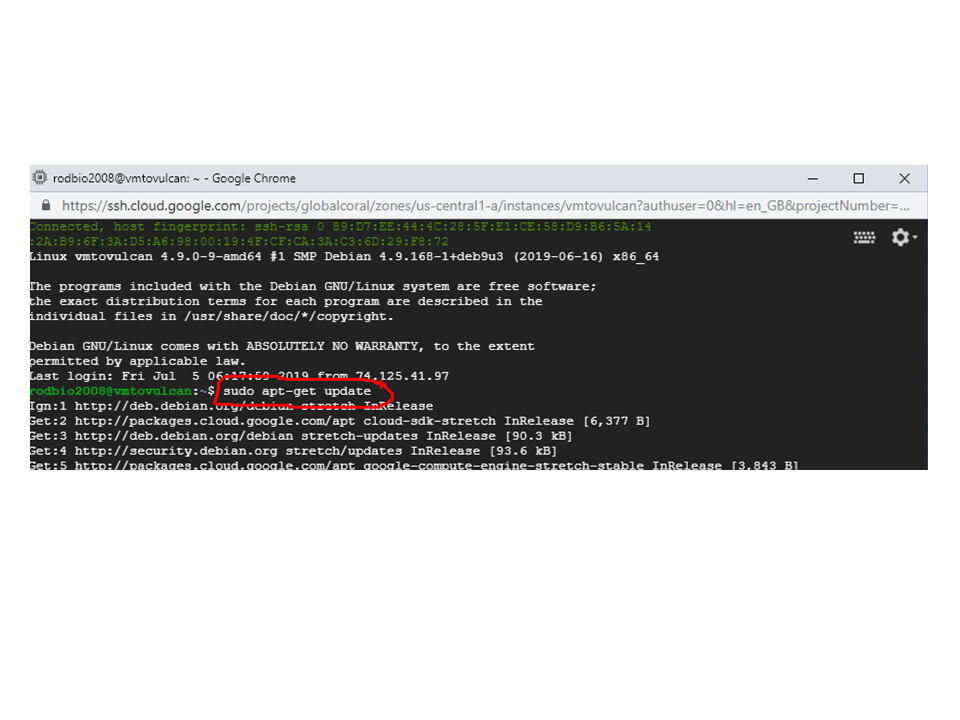
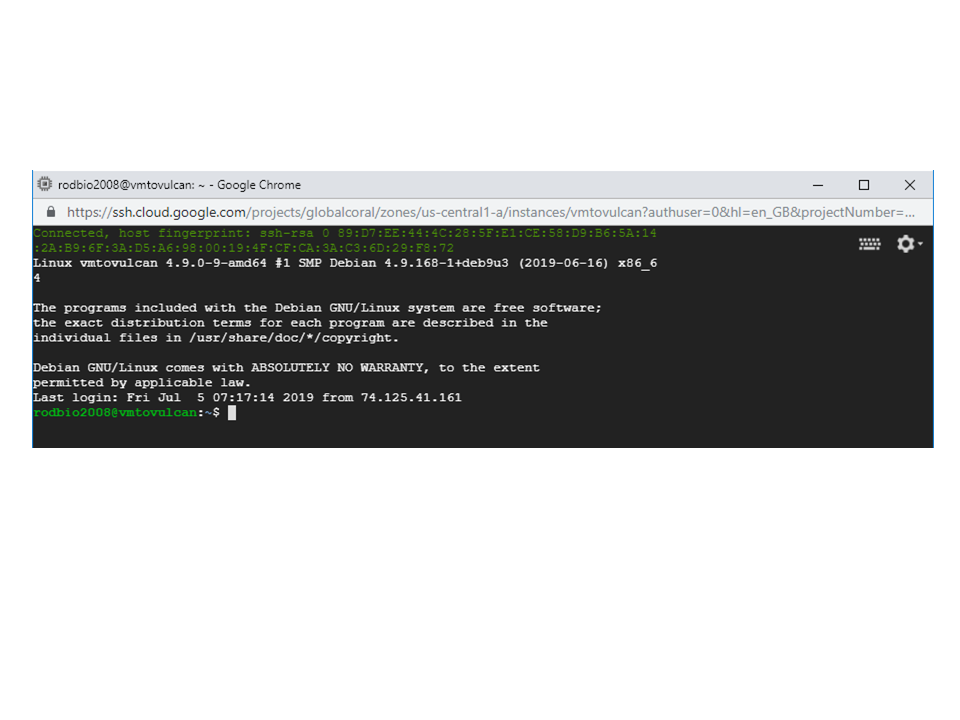
figure terminal and text

Changed region(s): [[0.0312, 0.2139, 1.0, 0.6722]]

diff --git a/README.md b/README.md
@@ -35,9 +35,9 @@ and you created a project (if not follow
  the better, be of course mindful to turn off your virtual machine when not in use to avoid being 
  extra charged :sob:
  
- Once the VM is started you will see a terminal like this below
+ Once the VM is started you will see a Linux terminal like the one below. 
  
- ![VMTerminal]()
+ ![VMTerminal](https://github.com/RSRCsupport/AllenCoralAtlas/blob/master/VMTerminal.png)
  
  
  
